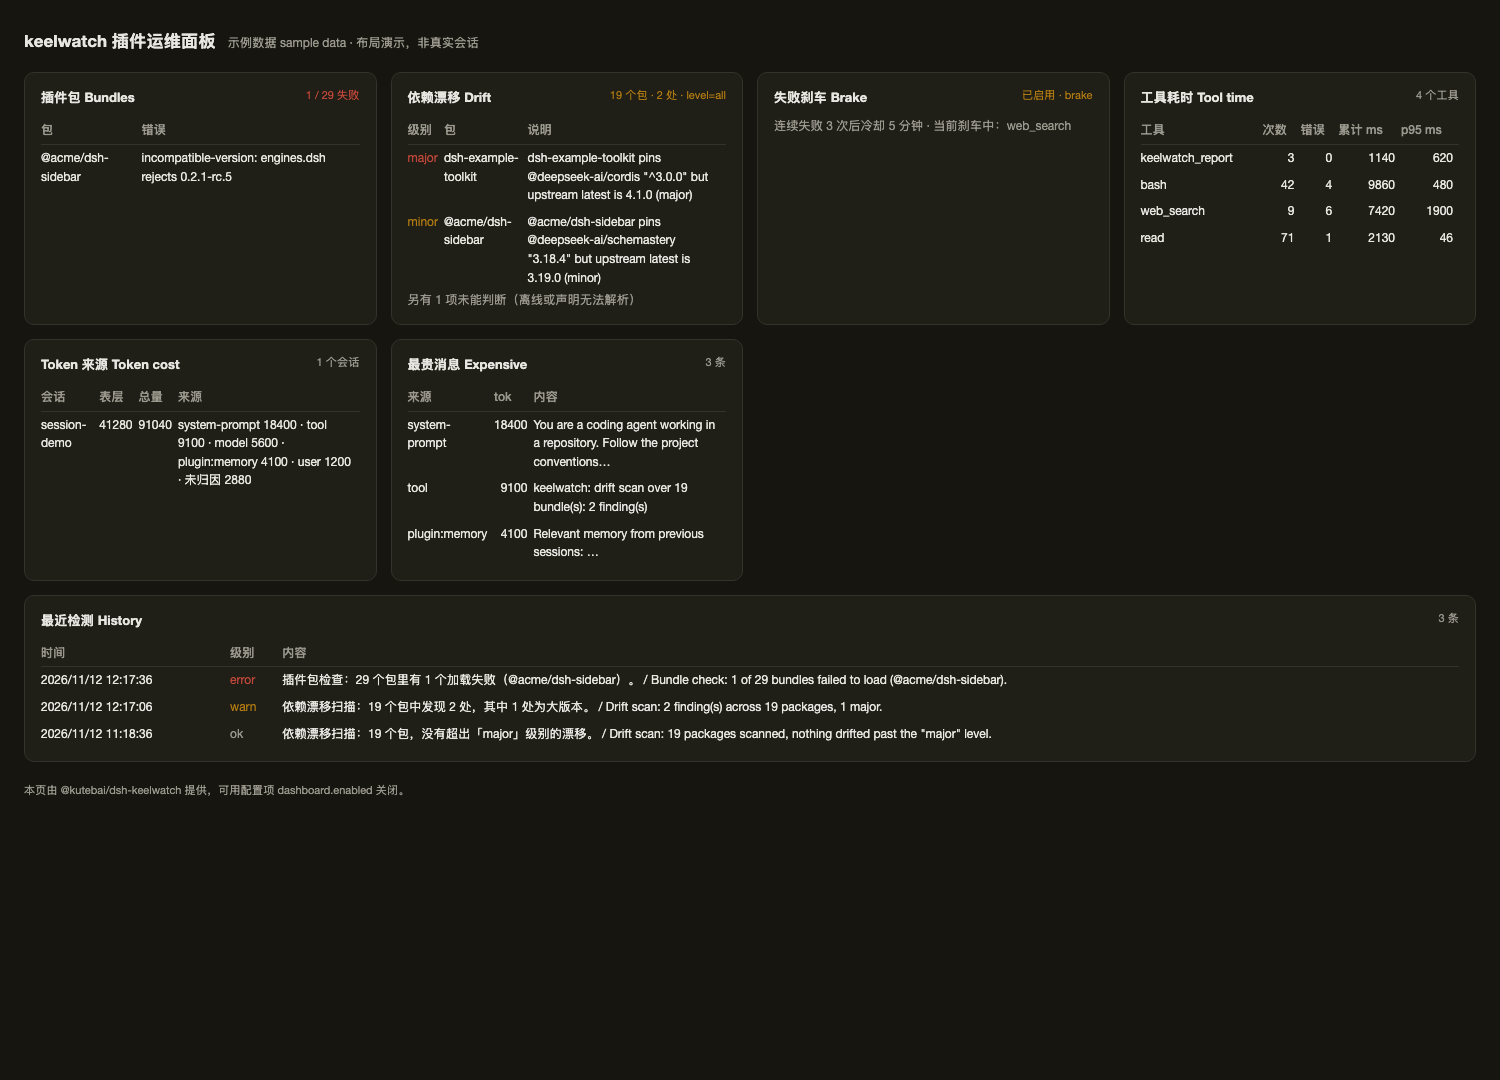
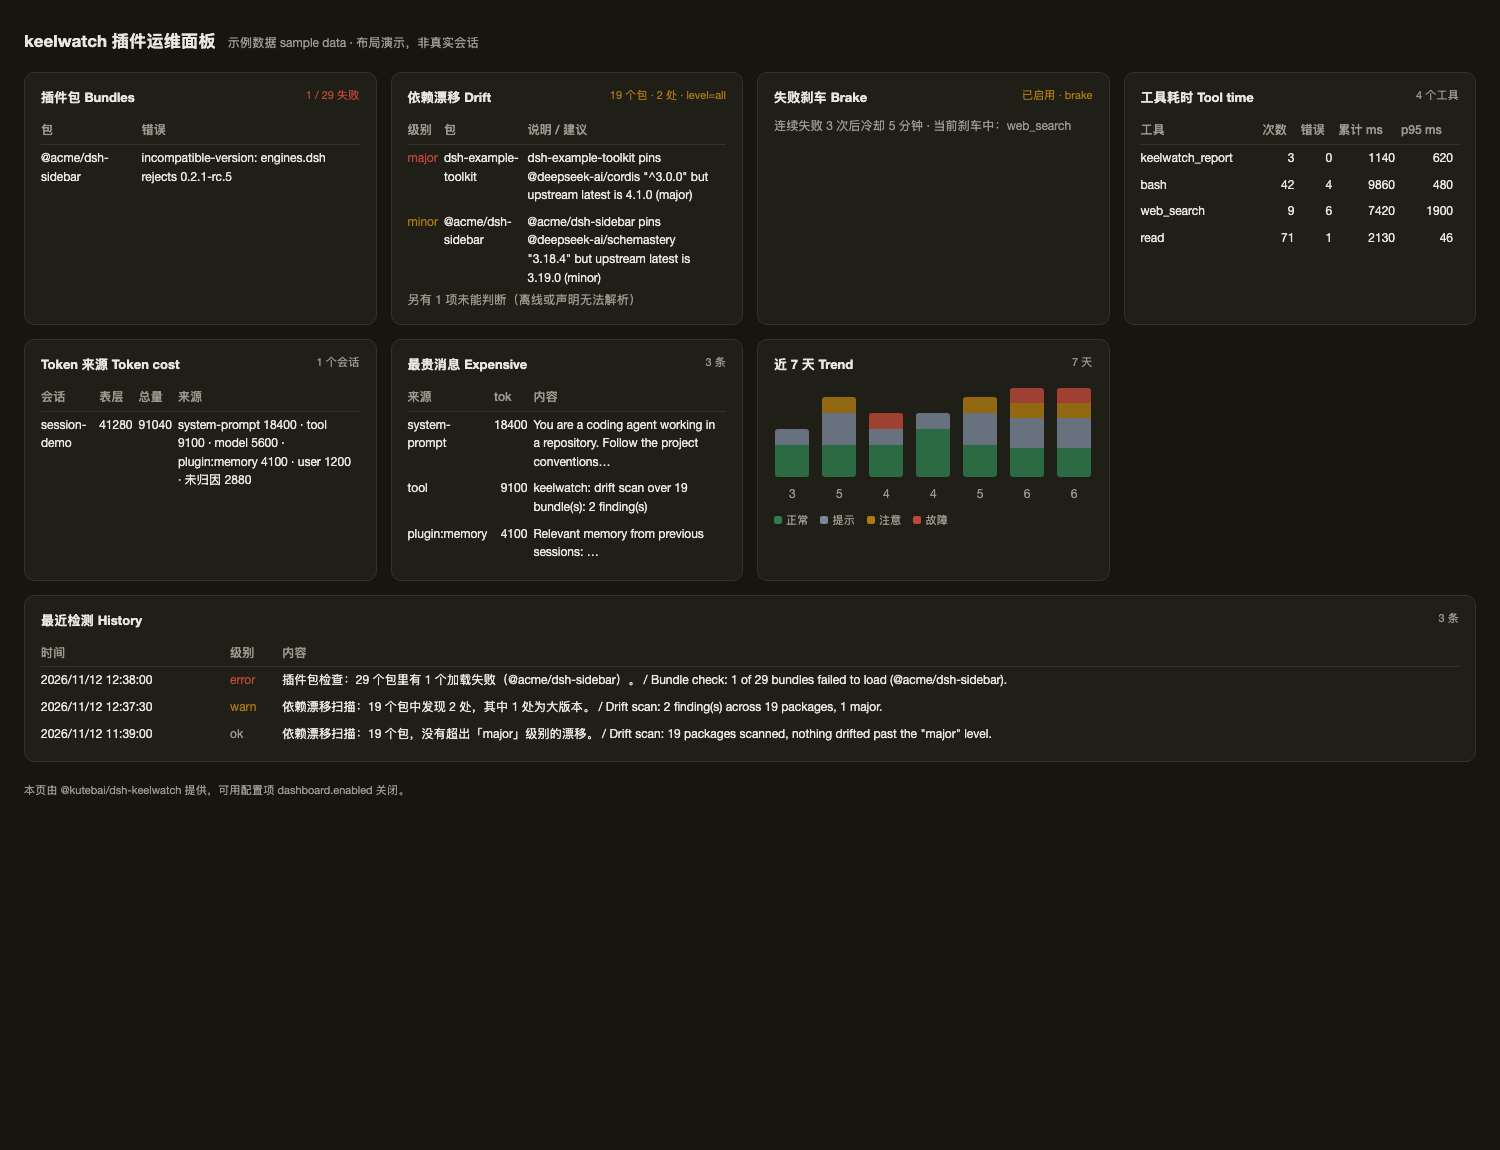
feat(0.4.0): 趋势改为堆叠柱状图 + 真实 Cordis e2e 测试
- dashboard: 近 7 天趋势从数字+细条改为按级别分色的堆叠柱状图（空白天保留空柱），带图例与 hover 明细
- test/e2e-cordis: 用真实 Cordis 上下文加载插件，由框架解析 inject=['timer','tools'] 并派发 tools/* waterfall
  - 连续失败触发 deny、取消不计数、timer 缺失时不激活（dsh-base 自带 timer）
- README 中英补测试分层说明与 timer 依赖说明；测试 110 项

diff --git a/lib/dashboard.js b/lib/dashboard.js
@@ -343,18 +343,51 @@ function render(data) {
   if (trend.length === 0) {
     rBody.replaceChildren(empty('还没有足够的历史'));
   } else {
+    // Stacked columns: one bar per day, height by total, segments by level.
     const peak = Math.max(1, ...trend.map((d) => d.ok + d.info + d.warn + d.error));
-    rBody.replaceChildren(table(['日期', '正常·提示·注意·故障', ''], trend.map((d) => {
-      const total = d.ok + d.info + d.warn + d.error;
-      const bar = el('div', undefined, 'bar');
-      const fill = el('i');
-      fill.style.width = Math.round((total / peak) * 100) + '%';
-      bar.appendChild(fill);
-      const cell = el('td');
-      cell.appendChild(el('div', d.ok + ' · ' + d.info + ' · ' + d.warn + ' · ' + d.error));
-      cell.appendChild(bar);
-      return [d.date.slice(5), cell, num(total)];
-    })));
+    const chart = el('div');
+    chart.style.cssText = 'display:flex;align-items:flex-end;gap:10px;height:120px;padding:4px 0 0;';
+    const legend = el('div', undefined, 'empty');
+    legend.style.cssText = 'display:flex;gap:12px;margin-top:8px;font-size:11px;';
+    const colorOf = { ok: '#2f7d4f', info: '#7a8798', warn: '#b07a12', error: '#c0483a' };
+    const labelOf = { ok: '正常', info: '提示', warn: '注意', error: '故障' };
+
+    for (const day of trend) {
+      const total = day.ok + day.info + day.warn + day.error;
+      const column = el('div');
+      column.style.cssText = 'flex:1;display:flex;flex-direction:column;align-items:center;gap:4px;height:100%;justify-content:flex-end;';
+      column.title = day.date + ' · ' + total + ' 条（正常 ' + day.ok + '，提示 ' + day.info + '，注意 ' + day.warn + '，故障 ' + day.error + '）';
+
+      const stack = el('div');
+      stack.style.cssText = 'width:100%;max-width:34px;display:flex;flex-direction:column-reverse;height:' +
+        Math.max(2, Math.round((total / peak) * 96)) + 'px;border-radius:3px;overflow:hidden;background:transparent;';
+      for (const level of ['ok', 'info', 'warn', 'error']) {
+        if (day[level] === 0) continue;
+        const segment = el('div');
+        segment.style.cssText = 'flex:' + day[level] + ';background:' + colorOf[level] + ';opacity:.8;';
+        stack.appendChild(segment);
+      }
+      if (total === 0) {
+        const flat = el('div');
+        flat.style.cssText = 'height:2px;width:100%;background:var(--line);';
+        stack.appendChild(flat);
+      }
+      column.appendChild(stack);
+      column.appendChild(el('div', day.date.slice(5), 'empty'));
+      column.appendChild(el('div', String(total), 'empty'));
+      chart.appendChild(column);
+    }
+
+    for (const level of ['ok', 'info', 'warn', 'error']) {
+      const item = el('span');
+      const dot = el('span');
+      dot.style.cssText = 'display:inline-block;width:8px;height:8px;border-radius:2px;margin-right:4px;background:' + colorOf[level];
+      item.appendChild(dot);
+      item.appendChild(el('span', labelOf[level]));
+      legend.appendChild(item);
+    }
+
+    rBody.replaceChildren(chart, legend);
   }
 
   const h = data.history;

diff --git a/src/dashboard.ts b/src/dashboard.ts
@@ -416,18 +416,51 @@ function render(data) {
   if (trend.length === 0) {
     rBody.replaceChildren(empty('还没有足够的历史'));
   } else {
+    // Stacked columns: one bar per day, height by total, segments by level.
     const peak = Math.max(1, ...trend.map((d) => d.ok + d.info + d.warn + d.error));
-    rBody.replaceChildren(table(['日期', '正常·提示·注意·故障', ''], trend.map((d) => {
-      const total = d.ok + d.info + d.warn + d.error;
-      const bar = el('div', undefined, 'bar');
-      const fill = el('i');
-      fill.style.width = Math.round((total / peak) * 100) + '%';
-      bar.appendChild(fill);
-      const cell = el('td');
-      cell.appendChild(el('div', d.ok + ' · ' + d.info + ' · ' + d.warn + ' · ' + d.error));
-      cell.appendChild(bar);
-      return [d.date.slice(5), cell, num(total)];
-    })));
+    const chart = el('div');
+    chart.style.cssText = 'display:flex;align-items:flex-end;gap:10px;height:120px;padding:4px 0 0;';
+    const legend = el('div', undefined, 'empty');
+    legend.style.cssText = 'display:flex;gap:12px;margin-top:8px;font-size:11px;';
+    const colorOf = { ok: '#2f7d4f', info: '#7a8798', warn: '#b07a12', error: '#c0483a' };
+    const labelOf = { ok: '正常', info: '提示', warn: '注意', error: '故障' };
+
+    for (const day of trend) {
+      const total = day.ok + day.info + day.warn + day.error;
+      const column = el('div');
+      column.style.cssText = 'flex:1;display:flex;flex-direction:column;align-items:center;gap:4px;height:100%;justify-content:flex-end;';
+      column.title = day.date + ' · ' + total + ' 条（正常 ' + day.ok + '，提示 ' + day.info + '，注意 ' + day.warn + '，故障 ' + day.error + '）';
+
+      const stack = el('div');
+      stack.style.cssText = 'width:100%;max-width:34px;display:flex;flex-direction:column-reverse;height:' +
+        Math.max(2, Math.round((total / peak) * 96)) + 'px;border-radius:3px;overflow:hidden;background:transparent;';
+      for (const level of ['ok', 'info', 'warn', 'error']) {
+        if (day[level] === 0) continue;
+        const segment = el('div');
+        segment.style.cssText = 'flex:' + day[level] + ';background:' + colorOf[level] + ';opacity:.8;';
+        stack.appendChild(segment);
+      }
+      if (total === 0) {
+        const flat = el('div');
+        flat.style.cssText = 'height:2px;width:100%;background:var(--line);';
+        stack.appendChild(flat);
+      }
+      column.appendChild(stack);
+      column.appendChild(el('div', day.date.slice(5), 'empty'));
+      column.appendChild(el('div', String(total), 'empty'));
+      chart.appendChild(column);
+    }
+
+    for (const level of ['ok', 'info', 'warn', 'error']) {
+      const item = el('span');
+      const dot = el('span');
+      dot.style.cssText = 'display:inline-block;width:8px;height:8px;border-radius:2px;margin-right:4px;background:' + colorOf[level];
+      item.appendChild(dot);
+      item.appendChild(el('span', labelOf[level]));
+      legend.appendChild(item);
+    }
+
+    rBody.replaceChildren(chart, legend);
   }
 
   const h = data.history;

diff --git a/README.zh.md b/README.zh.md
@@ -115,7 +115,7 @@ dashboard:
 http://127.0.0.1:3080/keelwatch/dashboard?token=<你的 GUI token>
 ```
 
-一页看完七块：插件包健康、依赖漂移（含修复建议）、刹车状态、工具耗时（次数/错误/累计/p95）、Token 来源（含**最贵的单条消息**）、**近 7 天检测趋势**、最近检测记录。页面是纯 HTML，不依赖前端构建，也不会因为客户端插件加载失败而白屏；关掉开关后两个路由都不再注册。
+一页看完七块：插件包健康、依赖漂移（含修复建议）、刹车状态、工具耗时（次数/错误/累计/p95）、Token 来源（含**最贵的单条消息**）、**近 7 天堆叠柱状趋势**（按正常/提示/注意/故障分色，空白天保留为空柱）、最近检测记录。页面是纯 HTML，不依赖前端构建，也不会因为客户端插件加载失败而白屏；关掉开关后两个路由都不再注册。
 
 **从哪里进**：仪表盘是独立页面，不在侧栏里。开关打开后，插件配置页的 Dashboard 卡片会多出一个 **「打开仪表盘 ↗」** 链接（自动带上当前 GUI token），点它即可。也可以手工打开 `/keelwatch/dashboard?token=<GUI token>`。
 
@@ -304,9 +304,19 @@ https://kute.github.io/dsh-keelwatch/index.json
 ```sh
 pnpm install
 pnpm build      # tsc -> lib/ + 浏览器半侧 src/client/index.js -> lib/client.js
-pnpm test       # node --test test/*.test.mjs
-pnpm market     # 生成 site/index.json（插件市场索引）
+pnpm test       # node --test test/*.test.mjs（110 项）
+pnpm market     # 生成 docs/index.json（插件市场索引）
 ```
+
+测试分三层，其中一层是真实框架：
+
+| 层 | 内容 |
+|:---|:---|
+| 纯函数 | semver 判定、刹车状态机、历史分桶、配置钳制 |
+| 集成（mock host） | 路由鉴权、配置写入、报告渲染、工具注册 |
+| **e2e（真实 Cordis）** | `test/e2e-cordis.test.mjs`：让框架自己解析 `inject = ['timer','tools']`、挂载插件、派发 `tools/*` waterfall，验证多次失败后真的 `deny`、取消不计入、卸载无残留。这层能发现 mock 永远发现不了的问题——注入名写错、注册时抛错 |
+
+依赖说明：`timer` 是**静态注入**，`dsh-base` 组合包自带 `@deepseek-ai/cordis-plugin-timer`（行 id `timer`），所以 web / headless / sdk 都有；把 timer 从 profile 里移除的部署不会加载本插件，这是声明式依赖的应有结果，而不是静默降级。
 
 验证与回滚手册见 [VERIFY.md](VERIFY.md)，回滚脚本见 [scripts/rollback.sh](scripts/rollback.sh)。
 

diff --git a/README.md b/README.md
@@ -91,7 +91,7 @@ dashboard:
 
 Turn it on and a **"open dashboard ↗"** link appears in the plugin's Dashboard card (it carries the GUI token). Or open `/keelwatch/dashboard?token=<GUI token>` directly — the page is standalone, not a section in the sidebar.
 
-The page shows bundle health, dependency drift with fix suggestions, brake state, per-tool latency (calls/errors/total/p95), token cost by source with the most expensive messages, a **7-day detection trend**, and recent history.
+The page shows bundle health, dependency drift with fix suggestions, brake state, per-tool latency (calls/errors/total/p95), token cost by source with the most expensive messages, a **7-day stacked trend chart** (coloured by ok/info/warn/error; silent days keep an empty column), and recent history.
 
 Both routes guard themselves with a **same-origin check** (the host's `/api` fence does not cover custom paths): a request carrying an `Origin` header that does not match the served host gets 401, which blocks a page in the browser from reaching localhost. Local CLI tools (no `Origin`) pass, since a local process can read your files anyway.
 
@@ -168,9 +168,13 @@ No timeouts (the host's `dsh-tool-call-timeout-policy` owns them), no repeat-cal
 ```sh
 pnpm install
 pnpm build      # tsc -> lib/ ; browser half src/client/index.js -> lib/client.js
-pnpm test       # node --test test/*.test.mjs
-pnpm market     # regenerate site/index.json (plugin market index)
+pnpm test       # node --test test/*.test.mjs (110 checks)
+pnpm market     # regenerate docs/index.json (plugin market index)
 ```
+
+Three test layers, one of which runs the real framework: `test/e2e-cordis.test.mjs` mounts the plugin in a real Cordis context so `inject = ['timer','tools']` is resolved by the framework itself, then dispatches the `tools/*` waterfalls — the only layer that catches a wrong inject name or a throwing registration.
+
+`timer` is a static inject; `dsh-base` ships `@deepseek-ai/cordis-plugin-timer` (row id `timer`), so web / headless / sdk profiles all provide it. A profile that removed it simply does not load this plugin, which is what a declared dependency should do.
 
 Verification and rollback: [VERIFY.md](VERIFY.md), [scripts/rollback.sh](scripts/rollback.sh).
 
